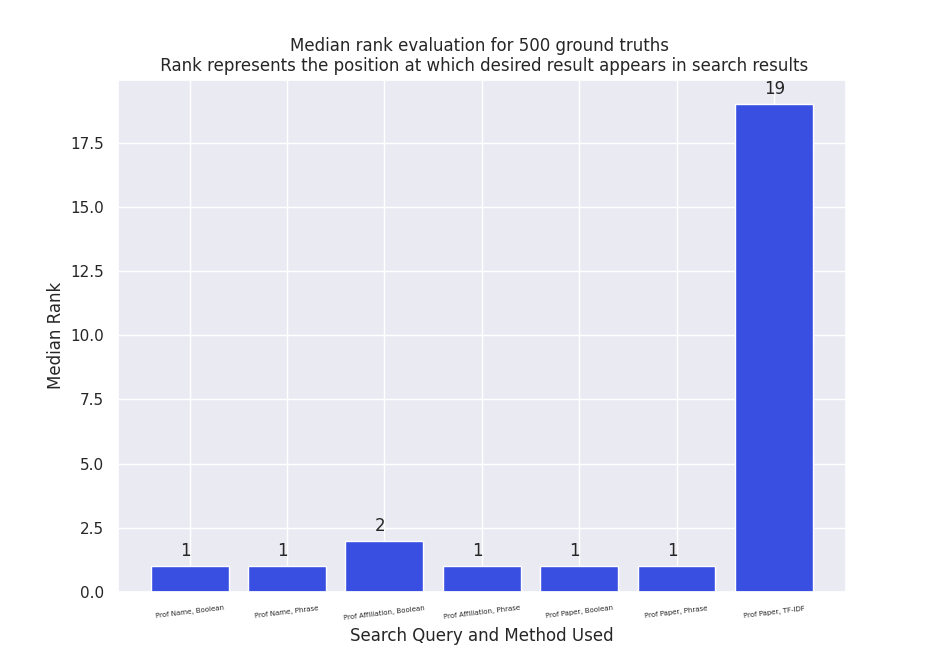
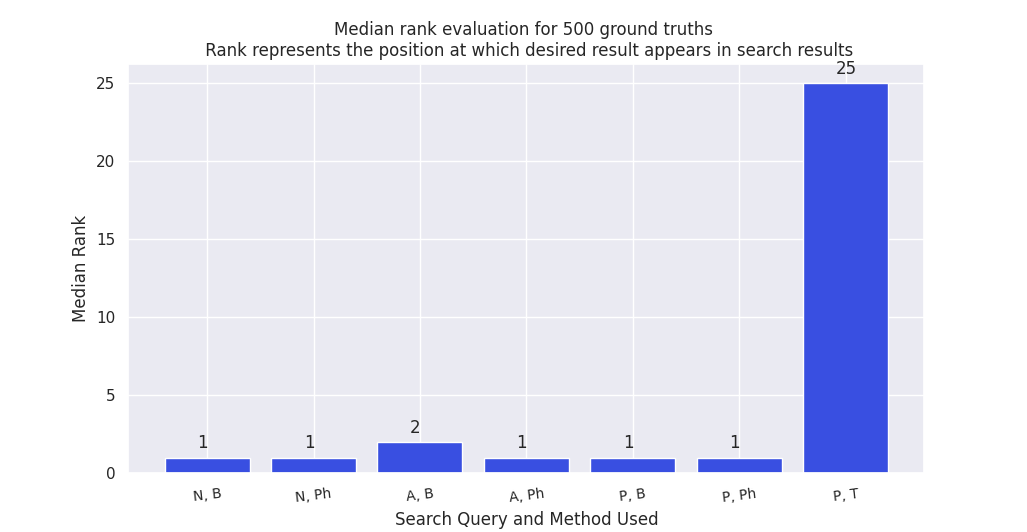
Update plots in evaluation

diff --git a/evaluation/evaluate.py b/evaluation/evaluate.py
@@ -313,16 +313,24 @@ for i in tqdm(range(number_of_professors_to_test)):
 for key in recallrate:
     recallrate[key]=(recallrate[key]/count)*100    
 
+# Legend:
+# N, B  : 'Prof Name, Boolean'
+# N, Ph : 'Prof Name, Phrase'
+# A, B  : 'Prof Affiliation, Boolean'
+# A, Ph : 'Prof Affiliation, Phrase'
+# P, B  : 'Prof Paper, Boolean'
+# P, Ph : 'Prof Paper, Phrase'
+# P, T  : 'Prof Paper, TF-IDF'
 
 # Plotting the median rank
-query_and_method = ['Prof Name, Boolean', 'Prof Name, Phrase', 'Prof Affiliation, Boolean', 'Prof Affiliation, Phrase', 'Prof Paper, Boolean', 'Prof Paper, Phrase', 'Prof Paper, TF-IDF']
+query_and_method = ['N, B', 'N, Ph', 'A, B', 'A, Ph', 'P, B', 'P, Ph', 'P, T']
 ranks_value = [find_median(ranks['prof-name-boolean-retrieval']), find_median(ranks['prof-name-phrase-retrieval']), find_median(ranks['prof-affiliation-boolean-retrieval']), find_median(ranks['prof-affiliation-phrase-retrieval']), find_median(ranks['prof-paper-boolean-retrieval']), find_median(ranks['prof-paper-phrase-retrieval']), find_median(ranks['prof-paper-tf-idf'])]
 plt.figure(0)
 plt.bar(query_and_method, ranks_value, color='#394fe1')
 plt.ylabel('Median Rank')
 plt.title('Median rank evaluation for '+str(number_of_professors_to_test)+' ground truths \n Rank represents the position at which desired result appears in search results')
 plt.xlabel('Search Query and Method Used')
-plt.xticks(fontsize=5,rotation=7)
+plt.xticks(fontsize=10,rotation=7)
 for i, v in enumerate(ranks_value):
     plt.annotate(str(v), xy=(i,v), xytext=(-7,7), textcoords='offset points')
 # plt.savefig('median_rank.png', dpi=300)
@@ -332,7 +340,8 @@ plt.show()
 # Plotting the recall rate
 width = 0.25
 
-query_and_method = ['Prof Name, Boolean', 'Prof Name, Phrase', 'Prof Affiliation, Boolean', 'Prof Affiliation, Phrase', 'Prof Paper, Boolean', 'Prof Paper, Phrase', 'Prof Paper, TF-IDF']
+
+query_and_method = ['N, B', 'N, Ph', 'A, B', 'A, Ph', 'P, B', 'P, Ph', 'P, T']
 recall_rate_5 = [recallrate['prof-name-boolean-retrieval-recall-rate-5'],recallrate['prof-name-phrase-retrieval-recall-rate-5'],recallrate['prof-affiliation-phrase-retrieval-recall-rate-5'],recallrate['prof-affiliation-boolean-retrieval-recall-rate-5'],recallrate['prof-paper-boolean-retrieval-recall-rate-5'],recallrate['prof-paper-phrase-retrieval-recall-rate-5'],recallrate['prof-paper-tf-idf-recall-rate-5']]
 recall_rate_10 = [recallrate['prof-name-boolean-retrieval-recall-rate-10'],recallrate['prof-name-phrase-retrieval-recall-rate-10'],recallrate['prof-affiliation-phrase-retrieval-recall-rate-10'],recallrate['prof-affiliation-boolean-retrieval-recall-rate-10'],recallrate['prof-paper-boolean-retrieval-recall-rate-10'],recallrate['prof-paper-phrase-retrieval-recall-rate-10'],recallrate['prof-paper-tf-idf-recall-rate-10']]
 x_1 = [2*i for i in range(len(recall_rate_5))]
@@ -343,7 +352,7 @@ plt.bar(x_2, recall_rate_10, color ='#010038', width = 0.5, edgecolor ='white', 
 plt.ylabel('Recall Rate')
 plt.title('Recall rate evaluation for '+str(number_of_professors_to_test)+' ground truths \n Recall rate (R@X) represents % of time desired results appeared in top X')
 plt.xlabel('Search Query and Method Used')
-plt.xticks([2*i + width for i in range(len(recall_rate_5))],query_and_method, fontsize=5, rotation=7)
+plt.xticks([2*i + width for i in range(len(recall_rate_5))],query_and_method, fontsize=10, rotation=7)
 plt.legend(['Recall Rate @ 5', 'Recall Rate @ 10'])
 # plt.savefig('recall_rate.png', dpi=300)
 plt.show()
@@ -358,14 +367,14 @@ def get_time_in_ms(time_in_s):
     except:
         return value+" ms"
 
-query_and_method = ['Prof Name, Boolean', 'Prof Name, Phrase', 'Prof Affiliation, Boolean', 'Prof Affiliation, Phrase', 'Prof Paper, Boolean', 'Prof Paper, Phrase', 'Prof Paper, TF-IDF']
+query_and_method = ['N, B', 'N, Ph', 'A, B', 'A, Ph', 'P, B', 'P, Ph', 'P, T']
 avg_time_value = [find_mean(avgquerytime['prof-name-boolean-retrieval']), find_mean(avgquerytime['prof-name-phrase-retrieval']), find_mean(avgquerytime['prof-affiliation-boolean-retrieval']), find_mean(avgquerytime['prof-affiliation-phrase-retrieval']), find_mean(avgquerytime['prof-paper-boolean-retrieval']), find_mean(avgquerytime['prof-paper-phrase-retrieval']), find_mean(avgquerytime['prof-paper-tf-idf'])]
 plt.figure(2)
 plt.plot(query_and_method, avg_time_value, 'ro',color='#394fe1')
 plt.ylabel('Average Query Time (in ms)')
 plt.title('Average query time for '+str(number_of_professors_to_test)+' searches')
 plt.xlabel('Search Query and Method Used')
-plt.xticks(fontsize=5,rotation=7)
+plt.xticks(fontsize=10,rotation=7)
 for i, v in enumerate(avg_time_value):
     plt.annotate(get_time_in_ms(v), xy=(i,v), xytext=(-7,7), textcoords='offset points')
 # plt.savefig('average_query_time.png', dpi=300)
